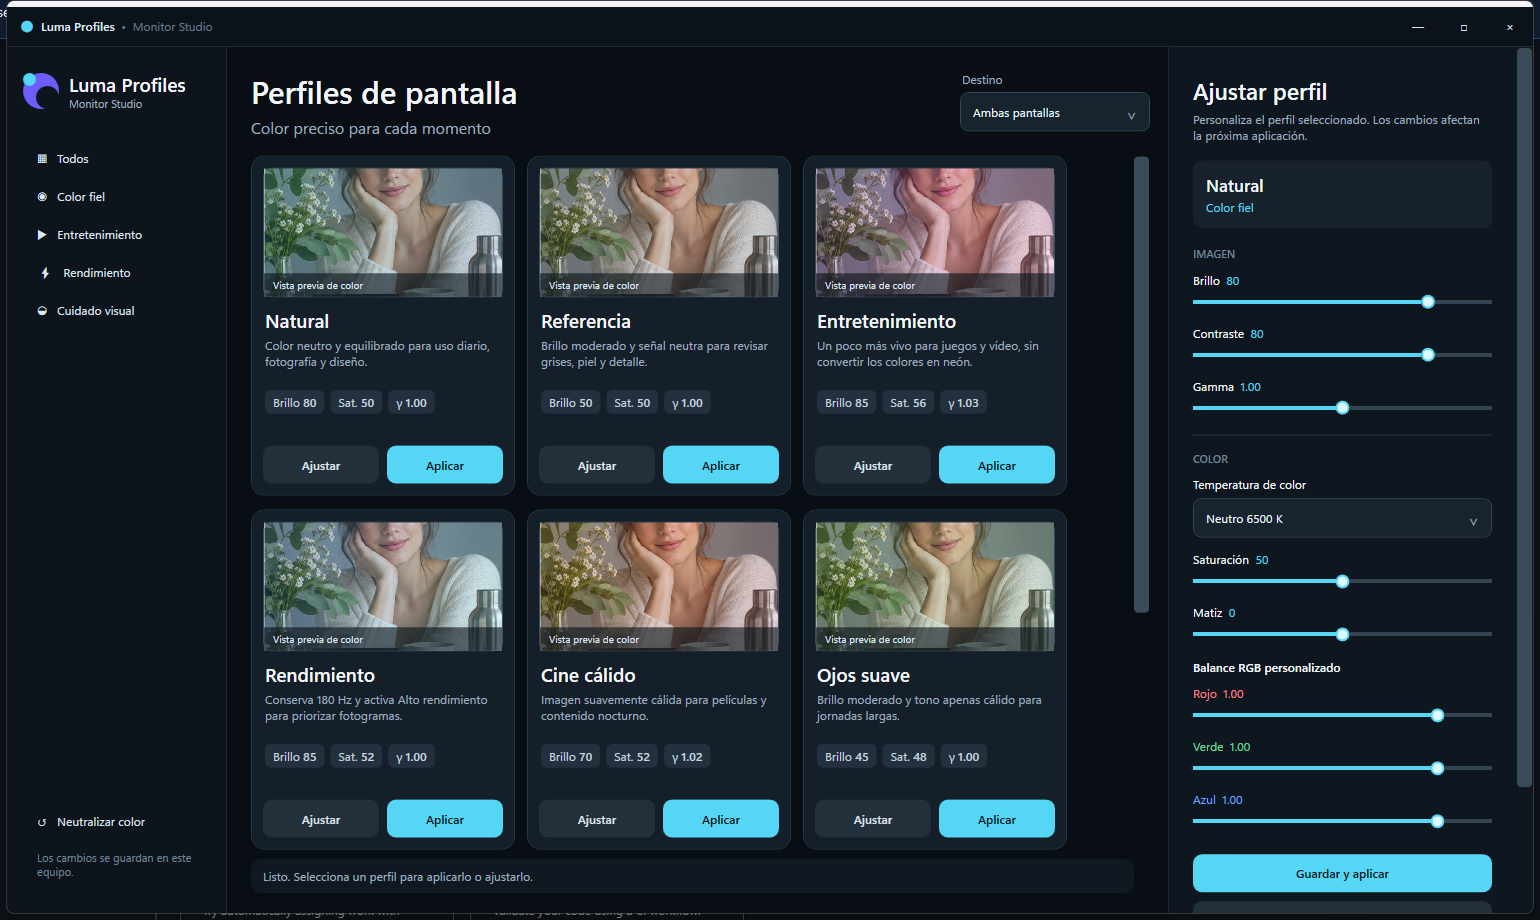
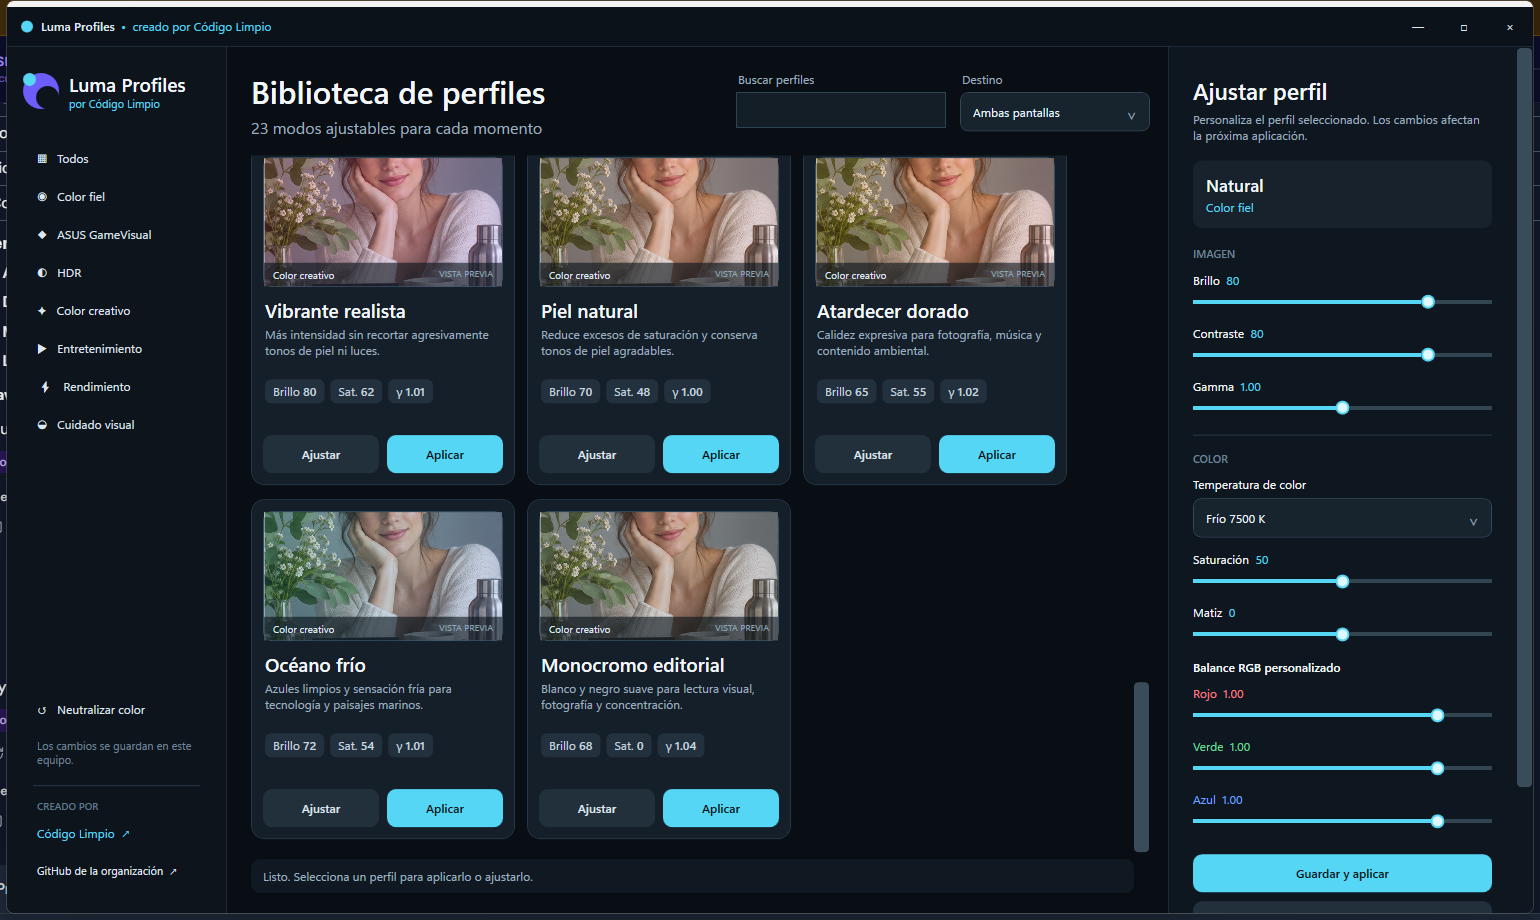
feat: expand branded color profile library

diff --git a/src/LumaProfiles/MainWindow.xaml b/src/LumaProfiles/MainWindow.xaml
@@ -4,7 +4,7 @@
         xmlns:d="http://schemas.microsoft.com/expression/blend/2008"
         xmlns:mc="http://schemas.openxmlformats.org/markup-compatibility/2006"
         mc:Ignorable="d"
-        Title="Luma Profiles" Height="920" Width="1540" MinHeight="760" MinWidth="1240"
+        Title="Luma Profiles — Código Limpio" Height="920" Width="1540" MinHeight="760" MinWidth="1240"
         WindowStartupLocation="CenterScreen" Background="#090E14" Foreground="#F5F8FB"
         WindowStyle="None" ResizeMode="CanResize" FontFamily="Segoe UI Variable Text">
     <Window.Resources>
@@ -170,6 +170,16 @@
             </Setter>
         </Style>
 
+        <Style TargetType="TextBox">
+            <Setter Property="Foreground" Value="#EAF4FA"/>
+            <Setter Property="Background" Value="#131E27"/>
+            <Setter Property="BorderBrush" Value="#2E4250"/>
+            <Setter Property="BorderThickness" Value="1"/>
+            <Setter Property="Padding" Value="12,9"/>
+            <Setter Property="CaretBrush" Value="#55D6F5"/>
+            <Setter Property="VerticalContentAlignment" Value="Center"/>
+        </Style>
+
         <Style TargetType="ScrollBar">
             <Setter Property="Width" Value="8"/>
             <Setter Property="Background" Value="Transparent"/>
@@ -218,7 +228,7 @@
                 <StackPanel Orientation="Horizontal" VerticalAlignment="Center" Margin="14,0">
                     <Ellipse Width="12" Height="12" Fill="#55D6F5" Margin="0,0,8,0"/>
                     <TextBlock Text="Luma Profiles" FontWeight="SemiBold" Foreground="#DCEAF3"/>
-                    <TextBlock Text="  •  Monitor Studio" Foreground="#667D8E"/>
+                    <TextBlock Text="  •  creado por Código Limpio" Foreground="#55D6F5"/>
                 </StackPanel>
                 <StackPanel Orientation="Horizontal" HorizontalAlignment="Right">
                     <Button Style="{StaticResource FlatButton}" Width="46" Height="39" Padding="0" HorizontalContentAlignment="Center" Content="—" Click="Minimize_Click"/>
@@ -245,13 +255,16 @@
                     </Grid>
                     <StackPanel VerticalAlignment="Center">
                         <TextBlock Text="Luma Profiles" FontSize="19" FontWeight="SemiBold"/>
-                        <TextBlock Text="Monitor Studio" FontSize="11" Foreground="{StaticResource MutedBrush}"/>
+                        <TextBlock Text="por Código Limpio" FontSize="11" Foreground="#55D6F5"/>
                     </StackPanel>
                 </StackPanel>
 
                 <StackPanel Grid.Row="2">
                     <Button Style="{StaticResource FlatButton}" Click="Category_Click" Tag="Todos" Content="▦   Todos"/>
                     <Button Style="{StaticResource FlatButton}" Click="Category_Click" Tag="Color fiel" Content="◉   Color fiel"/>
+                    <Button Style="{StaticResource FlatButton}" Click="Category_Click" Tag="ASUS GameVisual" Content="◆   ASUS GameVisual"/>
+                    <Button Style="{StaticResource FlatButton}" Click="Category_Click" Tag="HDR" Content="◐   HDR"/>
+                    <Button Style="{StaticResource FlatButton}" Click="Category_Click" Tag="Color creativo" Content="✦   Color creativo"/>
                     <Button Style="{StaticResource FlatButton}" Click="Category_Click" Tag="Entretenimiento" Content="▶   Entretenimiento"/>
                     <Button Style="{StaticResource FlatButton}" Click="Category_Click" Tag="Rendimiento" Content="⚡   Rendimiento"/>
                     <Button Style="{StaticResource FlatButton}" Click="Category_Click" Tag="Cuidado visual" Content="◒   Cuidado visual"/>
@@ -260,6 +273,10 @@
                 <StackPanel Grid.Row="3">
                     <Button Style="{StaticResource FlatButton}" Click="Repair_Click" ToolTip="Restablece una gamma RGB neutra y elimina dominantes de color." Content="↺   Neutralizar color"/>
                     <TextBlock Text="Los cambios se guardan en este equipo." Foreground="#6F8495" FontSize="11" TextWrapping="Wrap" Margin="14,10"/>
+                    <Border Height="1" Background="#263744" Margin="10,8"/>
+                    <TextBlock Text="CREADO POR" Foreground="#5F788A" FontWeight="SemiBold" FontSize="10" Margin="14,5,0,2"/>
+                    <Button Style="{StaticResource FlatButton}" Click="OpenCodigoLimpio_Click" Content="Código Limpio  ↗" Foreground="#55D6F5"/>
+                    <Button Style="{StaticResource FlatButton}" Click="OpenCodigoLimpioGithub_Click" Content="GitHub de la organización  ↗" FontSize="11"/>
                 </StackPanel>
             </Grid>
         </Border>
@@ -275,19 +292,25 @@
             <Grid>
                 <Grid.ColumnDefinitions>
                     <ColumnDefinition Width="*"/>
+                    <ColumnDefinition Width="210"/>
+                    <ColumnDefinition Width="14"/>
                     <ColumnDefinition Width="Auto"/>
                 </Grid.ColumnDefinitions>
                 <StackPanel>
-                    <TextBlock Text="Perfiles de pantalla" FontSize="31" FontWeight="SemiBold"/>
-                    <TextBlock Text="Color preciso para cada momento" FontSize="16" Foreground="{StaticResource MutedBrush}" Margin="0,4,0,0"/>
+                    <TextBlock Text="Biblioteca de perfiles" FontSize="31" FontWeight="SemiBold"/>
+                    <TextBlock Text="{Binding Profiles.Count, StringFormat={}{0} modos ajustables para cada momento}" FontSize="16" Foreground="{StaticResource MutedBrush}" Margin="0,4,0,0"/>
                 </StackPanel>
-                <StackPanel Grid.Column="1" Width="190">
+                <StackPanel Grid.Column="1">
+                    <TextBlock Text="Buscar perfiles" Foreground="{StaticResource MutedBrush}" Margin="2,0,0,5"/>
+                    <TextBox TextChanged="Search_TextChanged" ToolTip="Busca por nombre, categoría o descripción"/>
+                </StackPanel>
+                <StackPanel Grid.Column="3" Width="190">
                     <TextBlock Text="Destino" Foreground="{StaticResource MutedBrush}" Margin="2,0,0,5"/>
                     <ComboBox ItemsSource="{Binding MonitorTargets}" SelectedItem="{Binding SelectedMonitorTarget}"/>
                 </StackPanel>
             </Grid>
 
-            <ScrollViewer Grid.Row="2" VerticalScrollBarVisibility="Auto" HorizontalScrollBarVisibility="Disabled">
+            <ScrollViewer x:Name="ProfilesScrollViewer" Grid.Row="2" VerticalScrollBarVisibility="Auto" HorizontalScrollBarVisibility="Disabled">
                 <ItemsControl ItemsSource="{Binding VisibleProfiles}">
                     <ItemsControl.ItemsPanel>
                         <ItemsPanelTemplate>
@@ -333,7 +356,10 @@
                                                 </Rectangle.Fill>
                                             </Rectangle>
                                             <Border Background="#9A071018" VerticalAlignment="Bottom" Padding="9,5">
-                                                <TextBlock Text="Vista previa de color" FontSize="10" Foreground="#DCEAF3"/>
+                                                <Grid>
+                                                    <TextBlock Text="{Binding Category}" FontSize="10" Foreground="#DCEAF3"/>
+                                                    <TextBlock Text="VISTA PREVIA" FontSize="9" Foreground="#91A8B8" HorizontalAlignment="Right"/>
+                                                </Grid>
                                             </Border>
                                             <Border Background="#AA081018" CornerRadius="10" Padding="9,5" HorizontalAlignment="Right" VerticalAlignment="Top" Margin="8"
                                                     Visibility="{Binding IsActive, Converter={StaticResource BoolToVisibility}}">
@@ -417,6 +443,15 @@
                     <Slider Minimum="0.50" Maximum="1.10" TickFrequency="0.01" IsSnapToTickEnabled="True" Value="{Binding SelectedProfile.Green, Mode=TwoWay}"/>
                     <TextBlock Foreground="#6DA3FF"><Run Text="Azul"/><Run Text="  "/><Run Text="{Binding SelectedProfile.Blue, StringFormat={}{0:F2}}"/></TextBlock>
                     <Slider Minimum="0.50" Maximum="1.10" TickFrequency="0.01" IsSnapToTickEnabled="True" Value="{Binding SelectedProfile.Blue, Mode=TwoWay}"/>
+
+                    <Border Background="#18253A" BorderBrush="#36537D" BorderThickness="1" CornerRadius="9" Padding="12" Margin="0,4,0,10"
+                            Visibility="{Binding SelectedProfile.IsHdr, Converter={StaticResource BoolToVisibility}}">
+                        <StackPanel>
+                            <TextBlock Text="HDR requiere activación en Windows" Foreground="#86B7FF" FontWeight="SemiBold"/>
+                            <TextBlock Text="Al activar HDR, el monitor bloquea GameVisual y varios controles SDR." Foreground="#A9BBD0" TextWrapping="Wrap" Margin="0,4,0,8"/>
+                            <Button Style="{StaticResource SecondaryButton}" Content="Abrir configuración HDR" Click="OpenHdrSettings_Click"/>
+                        </StackPanel>
+                    </Border>
 
                     <Button Style="{StaticResource PrimaryButton}" Content="Guardar y aplicar" Click="SaveAndApply_Click" Margin="0,10,0,9"/>
                     <Button Style="{StaticResource SecondaryButton}" Content="Restaurar valores originales" Click="RestoreDefaults_Click"/>

diff --git a/src/LumaProfiles/Services/ProfileStore.cs b/src/LumaProfiles/Services/ProfileStore.cs
@@ -71,13 +71,31 @@ public sealed class ProfileStore
         Profile("cinema", "Cine cálido", "Entretenimiento", "Imagen suavemente cálida para películas y contenido nocturno.", "#F3A45B", "#8C3C5D", 70, 80, 52, 0, 1.02, 1.00, 0.99, 0.96, "Usuario (RGB)"),
         Profile("eyes-soft", "Ojos suave", "Cuidado visual", "Brillo moderado y tono apenas cálido para jornadas largas.", "#9EDC8D", "#4FA981", 45, 75, 48, 0, 1.00, 1.00, 0.99, 0.94, "Usuario (RGB)"),
         Profile("eyes-rest", "Ojos descanso", "Cuidado visual", "Brillo bajo y filtro cálido medio para trabajar con poca luz.", "#EFC66A", "#8F7A47", 30, 72, 46, 0, 1.00, 1.00, 0.97, 0.86, "Usuario (RGB)"),
-        Profile("eyes-night", "Ojos noche", "Cuidado visual", "Brillo mínimo práctico y filtro ámbar intenso para uso nocturno.", "#FF9B4A", "#693A35", 18, 70, 44, 0, 1.00, 1.00, 0.93, 0.74, "Usuario (RGB)")
+        Profile("eyes-night", "Ojos noche", "Cuidado visual", "Brillo mínimo práctico y filtro ámbar intenso para uso nocturno.", "#FF9B4A", "#693A35", 18, 70, 44, 0, 1.00, 1.00, 0.93, 0.74, "Usuario (RGB)"),
+
+        Profile("gv-rts", "RTS/RPG", "ASUS GameVisual", "Contraste y color reforzados para estrategia en tiempo real y juegos de rol.", "#7856D8", "#CB5D95", 82, 82, 58, 0, 1.02, 1.00, 1.00, 1.00, "Neutro 6500 K"),
+        Profile("gv-fps", "FPS", "ASUS GameVisual", "Aclara sombras y eleva el contraste para localizar detalles en escenas oscuras.", "#365BE2", "#55D6F5", 88, 88, 50, 0, 1.08, 1.00, 1.00, 1.00, "Neutro 6500 K", "HighPerformance"),
+        Profile("gv-cinema", "Cine ASUS", "ASUS GameVisual", "Contraste cinematográfico y color vivo para películas y series.", "#CE4B68", "#F29B55", 80, 85, 58, 0, 1.02, 1.00, 0.99, 0.95, "Usuario (RGB)"),
+        Profile("gv-scenery", "Escenario", "ASUS GameVisual", "Amplía verdes y azules para paisajes, naturaleza y fotografía de viajes.", "#2BBE8C", "#278BD3", 85, 82, 60, 0, 1.02, 0.98, 1.02, 1.02, "Usuario (RGB)"),
+        Profile("gv-racing", "Carrera", "ASUS GameVisual", "Respuesta visual equilibrada y limpia para juegos rápidos y conducción.", "#248CE8", "#55E0DD", 80, 80, 50, 0, 1.00, 1.00, 1.00, 1.00, "Neutro 6500 K", "HighPerformance"),
+        Profile("gv-srgb", "sRGB", "ASUS GameVisual", "Color contenido y neutro para fotografía, gráficos web y contenido sRGB.", "#9EAAB6", "#506171", 55, 80, 50, 0, 1.00, 1.00, 1.00, 1.00, "Neutro 6500 K"),
+        Profile("gv-moba", "MOBA", "ASUS GameVisual", "Colores de interfaz y contraste más claros para arenas multijugador.", "#B444D8", "#EC5B70", 82, 88, 58, 0, 1.04, 1.00, 1.00, 1.00, "Neutro 6500 K", "HighPerformance"),
+
+        Profile("hdr-gaming", "Gaming HDR", "HDR", "Base brillante para juegos HDR. Activa HDR de Windows antes de usarla.", "#00A9FF", "#8B5CFF", 95, 88, 55, 0, 1.00, 1.00, 1.00, 1.00, "Neutro 6500 K", "HighPerformance", true),
+        Profile("hdr-cinema", "Cine HDR", "HDR", "Base de contraste suave para películas HDR. Requiere HDR activo en Windows.", "#FF7048", "#8841A8", 82, 86, 53, 0, 1.00, 1.00, 1.00, 1.00, "Neutro 6500 K", "Balanced", true),
+        Profile("hdr-console", "Consola HDR", "HDR", "Punto de partida equilibrado para consolas y capturadoras con señal HDR.", "#27C47D", "#3276E8", 88, 84, 54, 0, 1.00, 1.00, 1.00, 1.00, "Neutro 6500 K", "HighPerformance", true),
+
+        Profile("creative-vivid", "Vibrante realista", "Color creativo", "Más intensidad sin recortar agresivamente tonos de piel ni luces.", "#FF4D76", "#6B58FF", 80, 82, 62, 0, 1.01, 1.00, 1.00, 1.00, "Neutro 6500 K"),
+        Profile("creative-skin", "Piel natural", "Color creativo", "Reduce excesos de saturación y conserva tonos de piel agradables.", "#EAA27D", "#BB6B73", 70, 78, 48, 0, 1.00, 1.00, 1.00, 0.98, "Usuario (RGB)"),
+        Profile("creative-golden", "Atardecer dorado", "Color creativo", "Calidez expresiva para fotografía, música y contenido ambiental.", "#FFB24C", "#C95155", 65, 80, 55, 0, 1.02, 1.00, 0.96, 0.84, "Usuario (RGB)"),
+        Profile("creative-ocean", "Océano frío", "Color creativo", "Azules limpios y sensación fría para tecnología y paisajes marinos.", "#2ED2D0", "#315BDA", 72, 82, 54, 0, 1.01, 0.94, 1.00, 1.04, "Usuario (RGB)"),
+        Profile("creative-mono", "Monocromo editorial", "Color creativo", "Blanco y negro suave para lectura visual, fotografía y concentración.", "#A8B0B8", "#343A42", 68, 82, 0, 0, 1.04, 1.00, 1.00, 1.00, "Neutro 6500 K")
     ];
 
     private static DisplayProfile Profile(
         string id, string name, string category, string description, string previewStart, string previewEnd,
         int brightness, int contrast, int saturation, int hue, double gamma, double red, double green, double blue,
-        string colorTemperature = "Usuario (RGB)", string powerPlan = "Balanced") => new()
+        string colorTemperature = "Usuario (RGB)", string powerPlan = "Balanced", bool isHdr = false) => new()
         {
             Id = id,
             Name = name,
@@ -94,6 +112,7 @@ public sealed class ProfileStore
             Green = green,
             Blue = blue,
             ColorTemperature = colorTemperature,
-            PowerPlan = powerPlan
+            PowerPlan = powerPlan,
+            IsHdr = isHdr
         };
 }

diff --git a/src/LumaProfiles/MainWindow.xaml.cs b/src/LumaProfiles/MainWindow.xaml.cs
@@ -3,7 +3,7 @@ using System.ComponentModel;
 using System.Runtime.CompilerServices;
 using System.Windows;
 using System.Windows.Controls;
-using System.Windows.Data;
+using System.Diagnostics;
 using LumaProfiles.Models;
 using LumaProfiles.Services;
 
@@ -15,11 +15,12 @@ public partial class MainWindow : Window, INotifyPropertyChanged
     private readonly MonitorService _monitorService = new();
     private DisplayProfile _selectedProfile;
     private string _selectedCategory = "Todos";
+    private string _searchText = string.Empty;
     private string _selectedMonitorTarget = "Ambas pantallas";
     private string _statusMessage = "Listo. Selecciona un perfil para aplicarlo o ajustarlo.";
 
     public ObservableCollection<DisplayProfile> Profiles { get; }
-    public ICollectionView VisibleProfiles { get; }
+    public ObservableCollection<DisplayProfile> VisibleProfiles { get; } = [];
     public IReadOnlyList<string> MonitorTargets { get; } = ["Ambas pantallas", "Pantalla 1", "Pantalla 2"];
     public IReadOnlyList<string> ColorTemperatureOptions { get; } =
         ["Usuario (RGB)", "Cálido 5000 K", "Neutro 6500 K", "Frío 7500 K"];
@@ -46,12 +47,11 @@ public partial class MainWindow : Window, INotifyPropertyChanged
     {
         Profiles = new ObservableCollection<DisplayProfile>(_profileStore.Load());
         _selectedProfile = Profiles.First();
-        VisibleProfiles = CollectionViewSource.GetDefaultView(Profiles);
-        VisibleProfiles.Filter = item => item is DisplayProfile profile &&
-            (_selectedCategory == "Todos" || profile.Category == _selectedCategory);
+        RefreshVisibleProfiles();
 
         InitializeComponent();
         DataContext = this;
+        Loaded += (_, _) => ProfilesScrollViewer.ScrollToTop();
     }
 
     private void Category_Click(object sender, RoutedEventArgs e)
@@ -59,9 +59,39 @@ public partial class MainWindow : Window, INotifyPropertyChanged
         if (sender is Button { Tag: string category })
         {
             _selectedCategory = category;
-            VisibleProfiles.Refresh();
-            StatusMessage = category == "Todos" ? "Mostrando todos los perfiles." : $"Categoría: {category}.";
+            RefreshVisibleProfiles();
+            ProfilesScrollViewer.ScrollToTop();
+            StatusMessage = category == "Todos" ? $"Mostrando los {Profiles.Count} perfiles." : $"Categoría: {category}.";
         }
+    }
+
+    private void Search_TextChanged(object sender, TextChangedEventArgs e)
+    {
+        _searchText = (sender as TextBox)?.Text?.Trim() ?? string.Empty;
+        RefreshVisibleProfiles();
+        ProfilesScrollViewer.ScrollToTop();
+        StatusMessage = string.IsNullOrWhiteSpace(_searchText)
+            ? $"Biblioteca completa: {Profiles.Count} perfiles."
+            : $"Resultados para “{_searchText}”.";
+    }
+
+    private void RefreshVisibleProfiles()
+    {
+        VisibleProfiles.Clear();
+        foreach (var profile in Profiles.Where(MatchesCurrentFilter))
+        {
+            VisibleProfiles.Add(profile);
+        }
+    }
+
+    private bool MatchesCurrentFilter(DisplayProfile profile)
+    {
+        if (_selectedCategory != "Todos" && profile.Category != _selectedCategory) return false;
+        if (string.IsNullOrWhiteSpace(_searchText)) return true;
+
+        return profile.Name.Contains(_searchText, StringComparison.CurrentCultureIgnoreCase) ||
+               profile.Category.Contains(_searchText, StringComparison.CurrentCultureIgnoreCase) ||
+               profile.Description.Contains(_searchText, StringComparison.CurrentCultureIgnoreCase);
     }
 
     private void TitleBar_MouseLeftButtonDown(object sender, System.Windows.Input.MouseButtonEventArgs e)
@@ -83,6 +113,18 @@ public partial class MainWindow : Window, INotifyPropertyChanged
     private void Maximize_Click(object sender, RoutedEventArgs e) => ToggleMaximized();
 
     private void Close_Click(object sender, RoutedEventArgs e) => Close();
+
+    private void OpenCodigoLimpio_Click(object sender, RoutedEventArgs e) => OpenUrl("https://codigolimpio.com.co/");
+
+    private void OpenCodigoLimpioGithub_Click(object sender, RoutedEventArgs e) => OpenUrl("https://github.com/CodigoLimpioCo");
+
+    private void OpenHdrSettings_Click(object sender, RoutedEventArgs e)
+    {
+        Process.Start(new ProcessStartInfo("ms-settings:display") { UseShellExecute = true });
+    }
+
+    private static void OpenUrl(string url) =>
+        Process.Start(new ProcessStartInfo(url) { UseShellExecute = true });
 
     private void ToggleMaximized() =>
         WindowState = WindowState == WindowState.Maximized ? WindowState.Normal : WindowState.Maximized;
@@ -134,6 +176,10 @@ public partial class MainWindow : Window, INotifyPropertyChanged
         profile.IsActive = result.DisplayCount > 0;
         _profileStore.Save(Profiles);
         StatusMessage = FormatResult($"{profile.Name} aplicado", result);
+        if (profile.IsHdr)
+        {
+            StatusMessage += " Activa HDR en Windows; al hacerlo, el monitor administra y bloquea varios controles SDR.";
+        }
     }
 
     private static string FormatResult(string successText, ApplyResult result)

diff --git a/src/LumaProfiles/Models/DisplayProfile.cs b/src/LumaProfiles/Models/DisplayProfile.cs
@@ -23,6 +23,7 @@ public sealed class DisplayProfile : INotifyPropertyChanged
     public required string PreviewStart { get; init; }
     public required string PreviewEnd { get; init; }
     public string PowerPlan { get; init; } = "Balanced";
+    public bool IsHdr { get; init; }
 
     public int Brightness { get => _brightness; set => Set(ref _brightness, value); }
     public int Contrast { get => _contrast; set => Set(ref _contrast, value); }
@@ -45,6 +46,7 @@ public sealed class DisplayProfile : INotifyPropertyChanged
         PreviewStart = PreviewStart,
         PreviewEnd = PreviewEnd,
         PowerPlan = PowerPlan,
+        IsHdr = IsHdr,
         Brightness = Brightness,
         Contrast = Contrast,
         Saturation = Saturation,

diff --git a/README.md b/README.md
@@ -1,12 +1,18 @@
 # Luma Profiles
 
+Aplicación creada por **[Código Limpio](https://codigolimpio.com.co/)** · [GitHub](https://github.com/CodigoLimpioCo)
+
 Luma Profiles es una aplicación de escritorio para Windows que permite guardar, personalizar y aplicar perfiles de color a uno o varios monitores compatibles con DDC/CI.
 
 ![Captura de Luma Profiles](docs/app-screenshot.png)
 
 ## Funciones
 
-- Ocho perfiles iniciales: Natural, Referencia, Entretenimiento, Rendimiento, Cine cálido y tres niveles de cuidado visual.
+- 23 perfiles iniciales organizados por finalidad.
+- Siete modos inspirados en ASUS GameVisual: RTS/RPG, FPS, Cine, Escenario, Carrera, sRGB y MOBA.
+- Tres puntos de partida HDR: Gaming HDR, Cine HDR y Consola HDR.
+- Cinco estilos creativos: Vibrante realista, Piel natural, Atardecer dorado, Océano frío y Monocromo editorial.
+- Natural, Referencia, Entretenimiento, Rendimiento, Cine cálido y tres niveles de cuidado visual.
 - Tarjetas con vista previa, descripción y valores principales.
 - Categorías para color fiel, entretenimiento, rendimiento y cuidado visual.
 - Ajuste individual de brillo, contraste, gamma, temperatura de color, saturación, matiz y balance RGB.
@@ -49,3 +55,5 @@ La interfaz implementada se encuentra en `docs/app-screenshot.png`. El concepto 
 ## Licencia
 
 MIT. Las contribuciones y mejoras son bienvenidas.
+
+Código Limpio no está afiliado con ASUS. Las marcas mencionadas pertenecen a sus respectivos propietarios.
